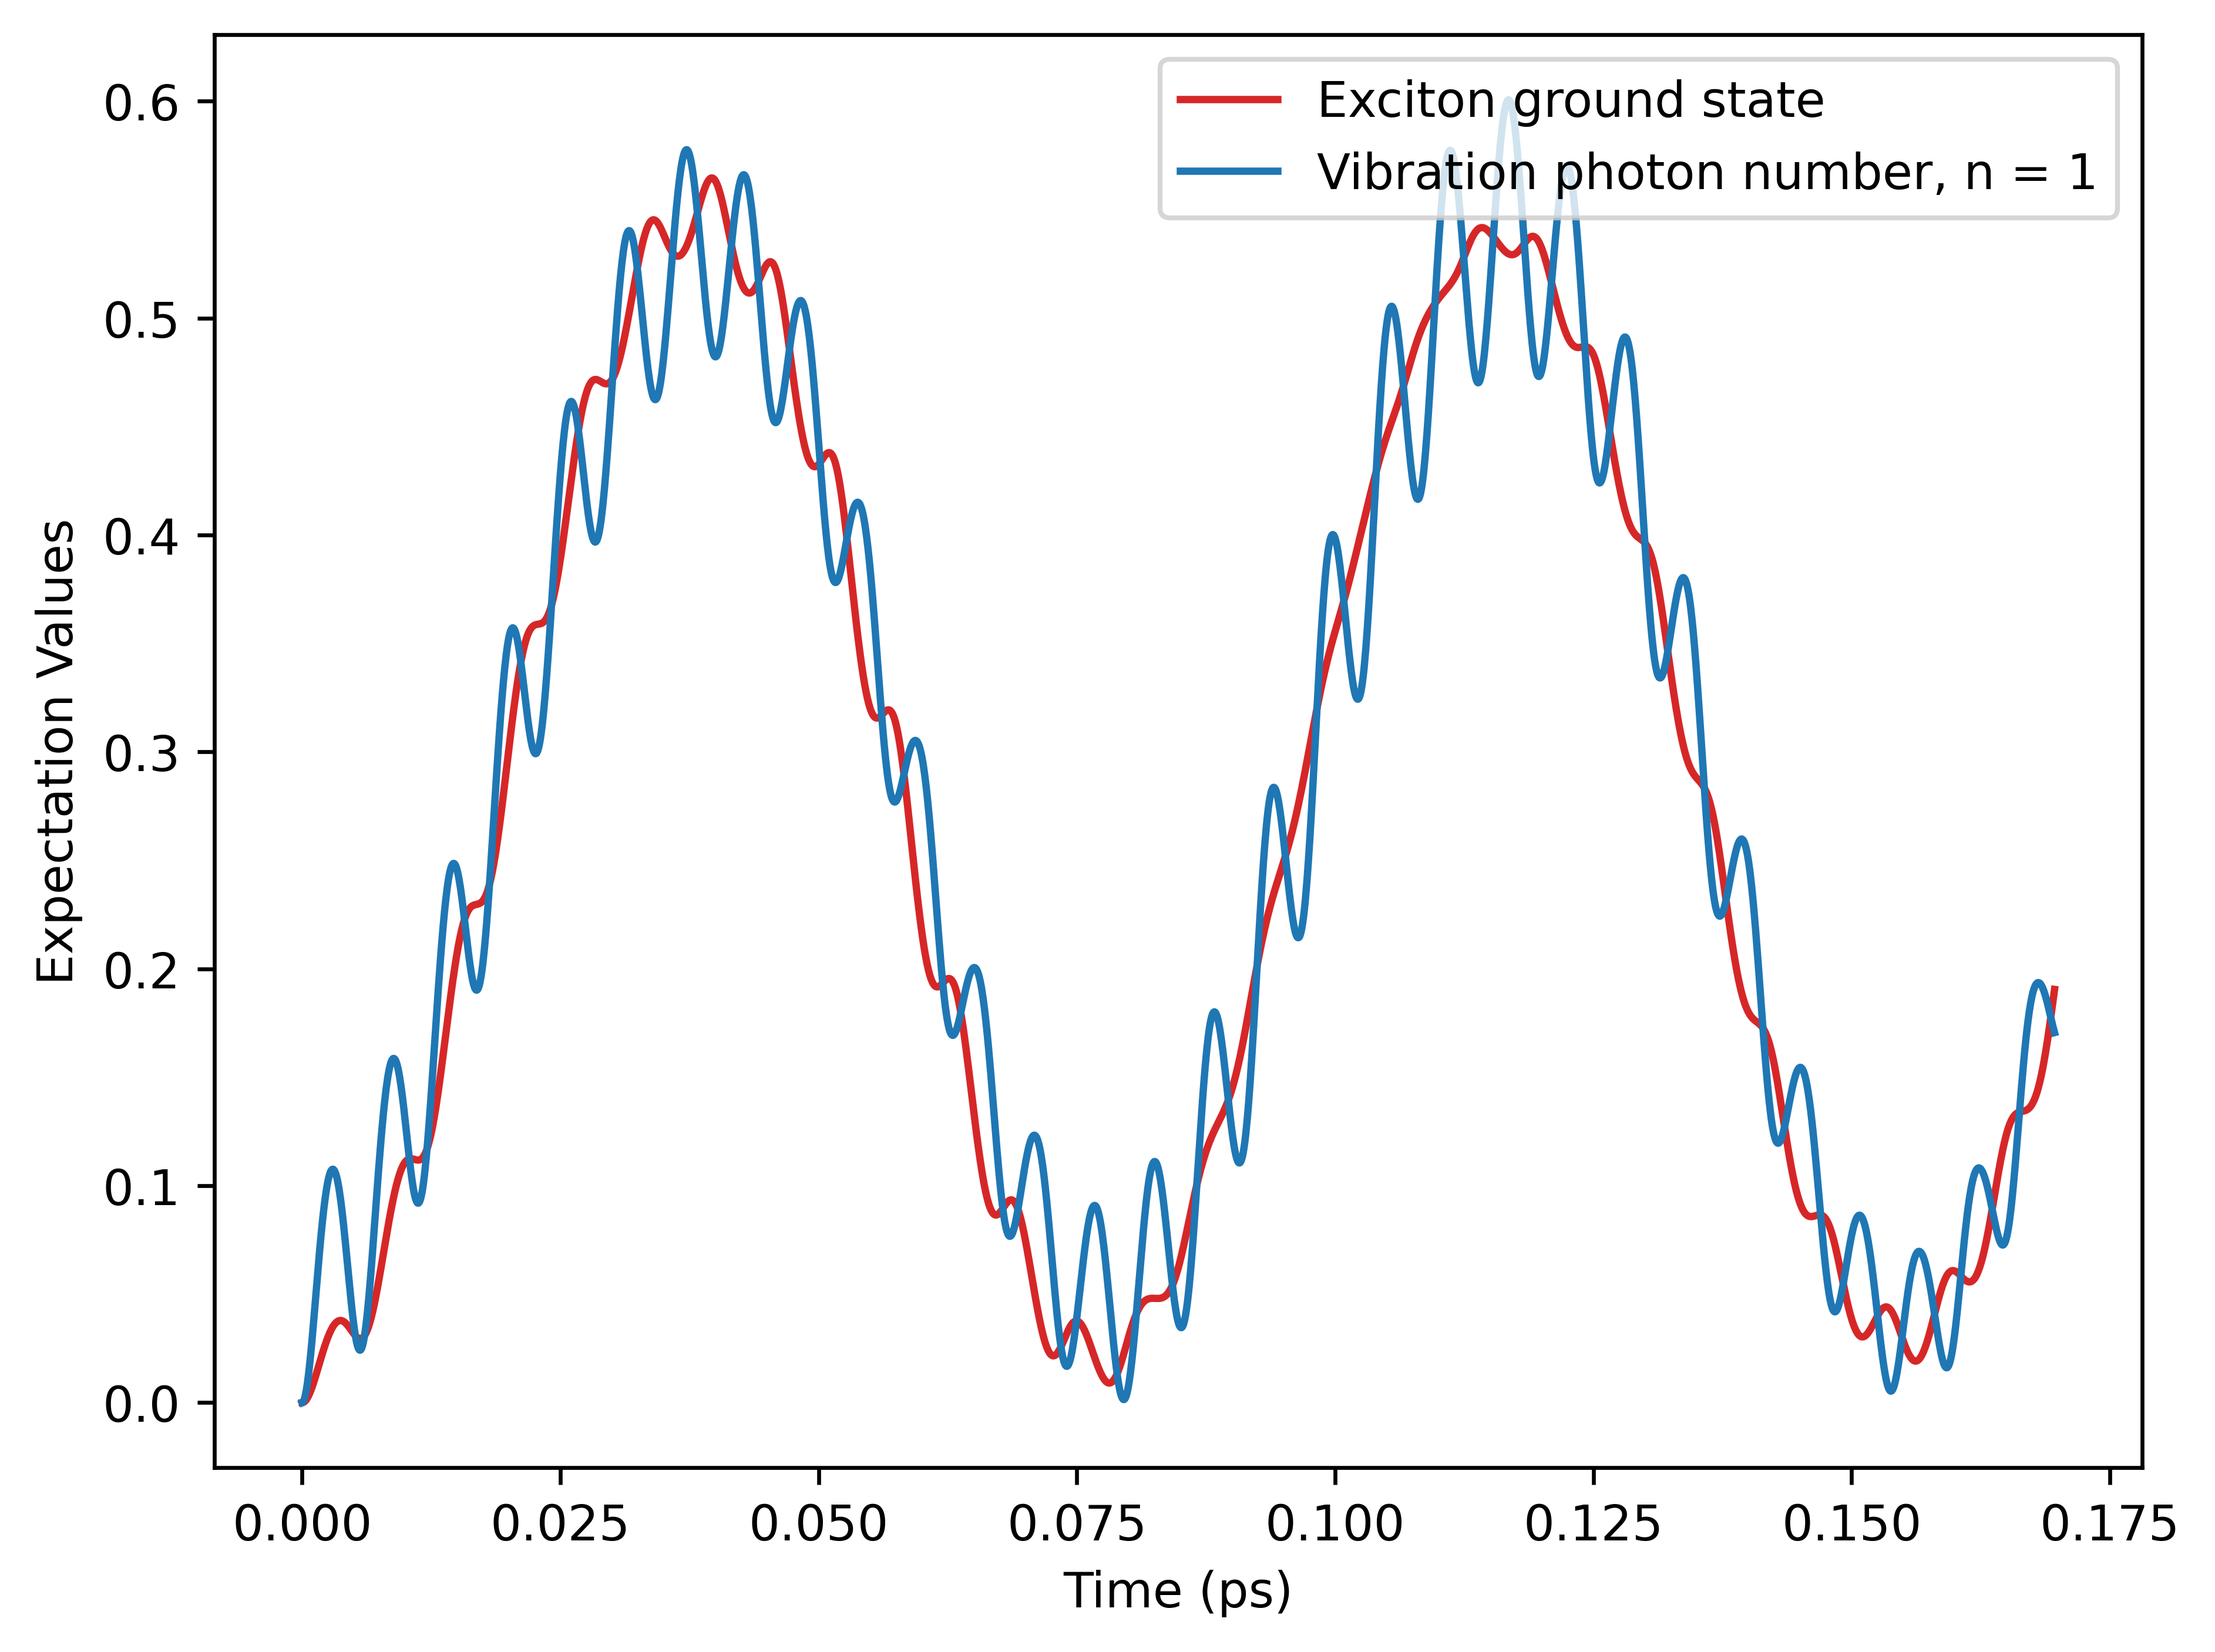
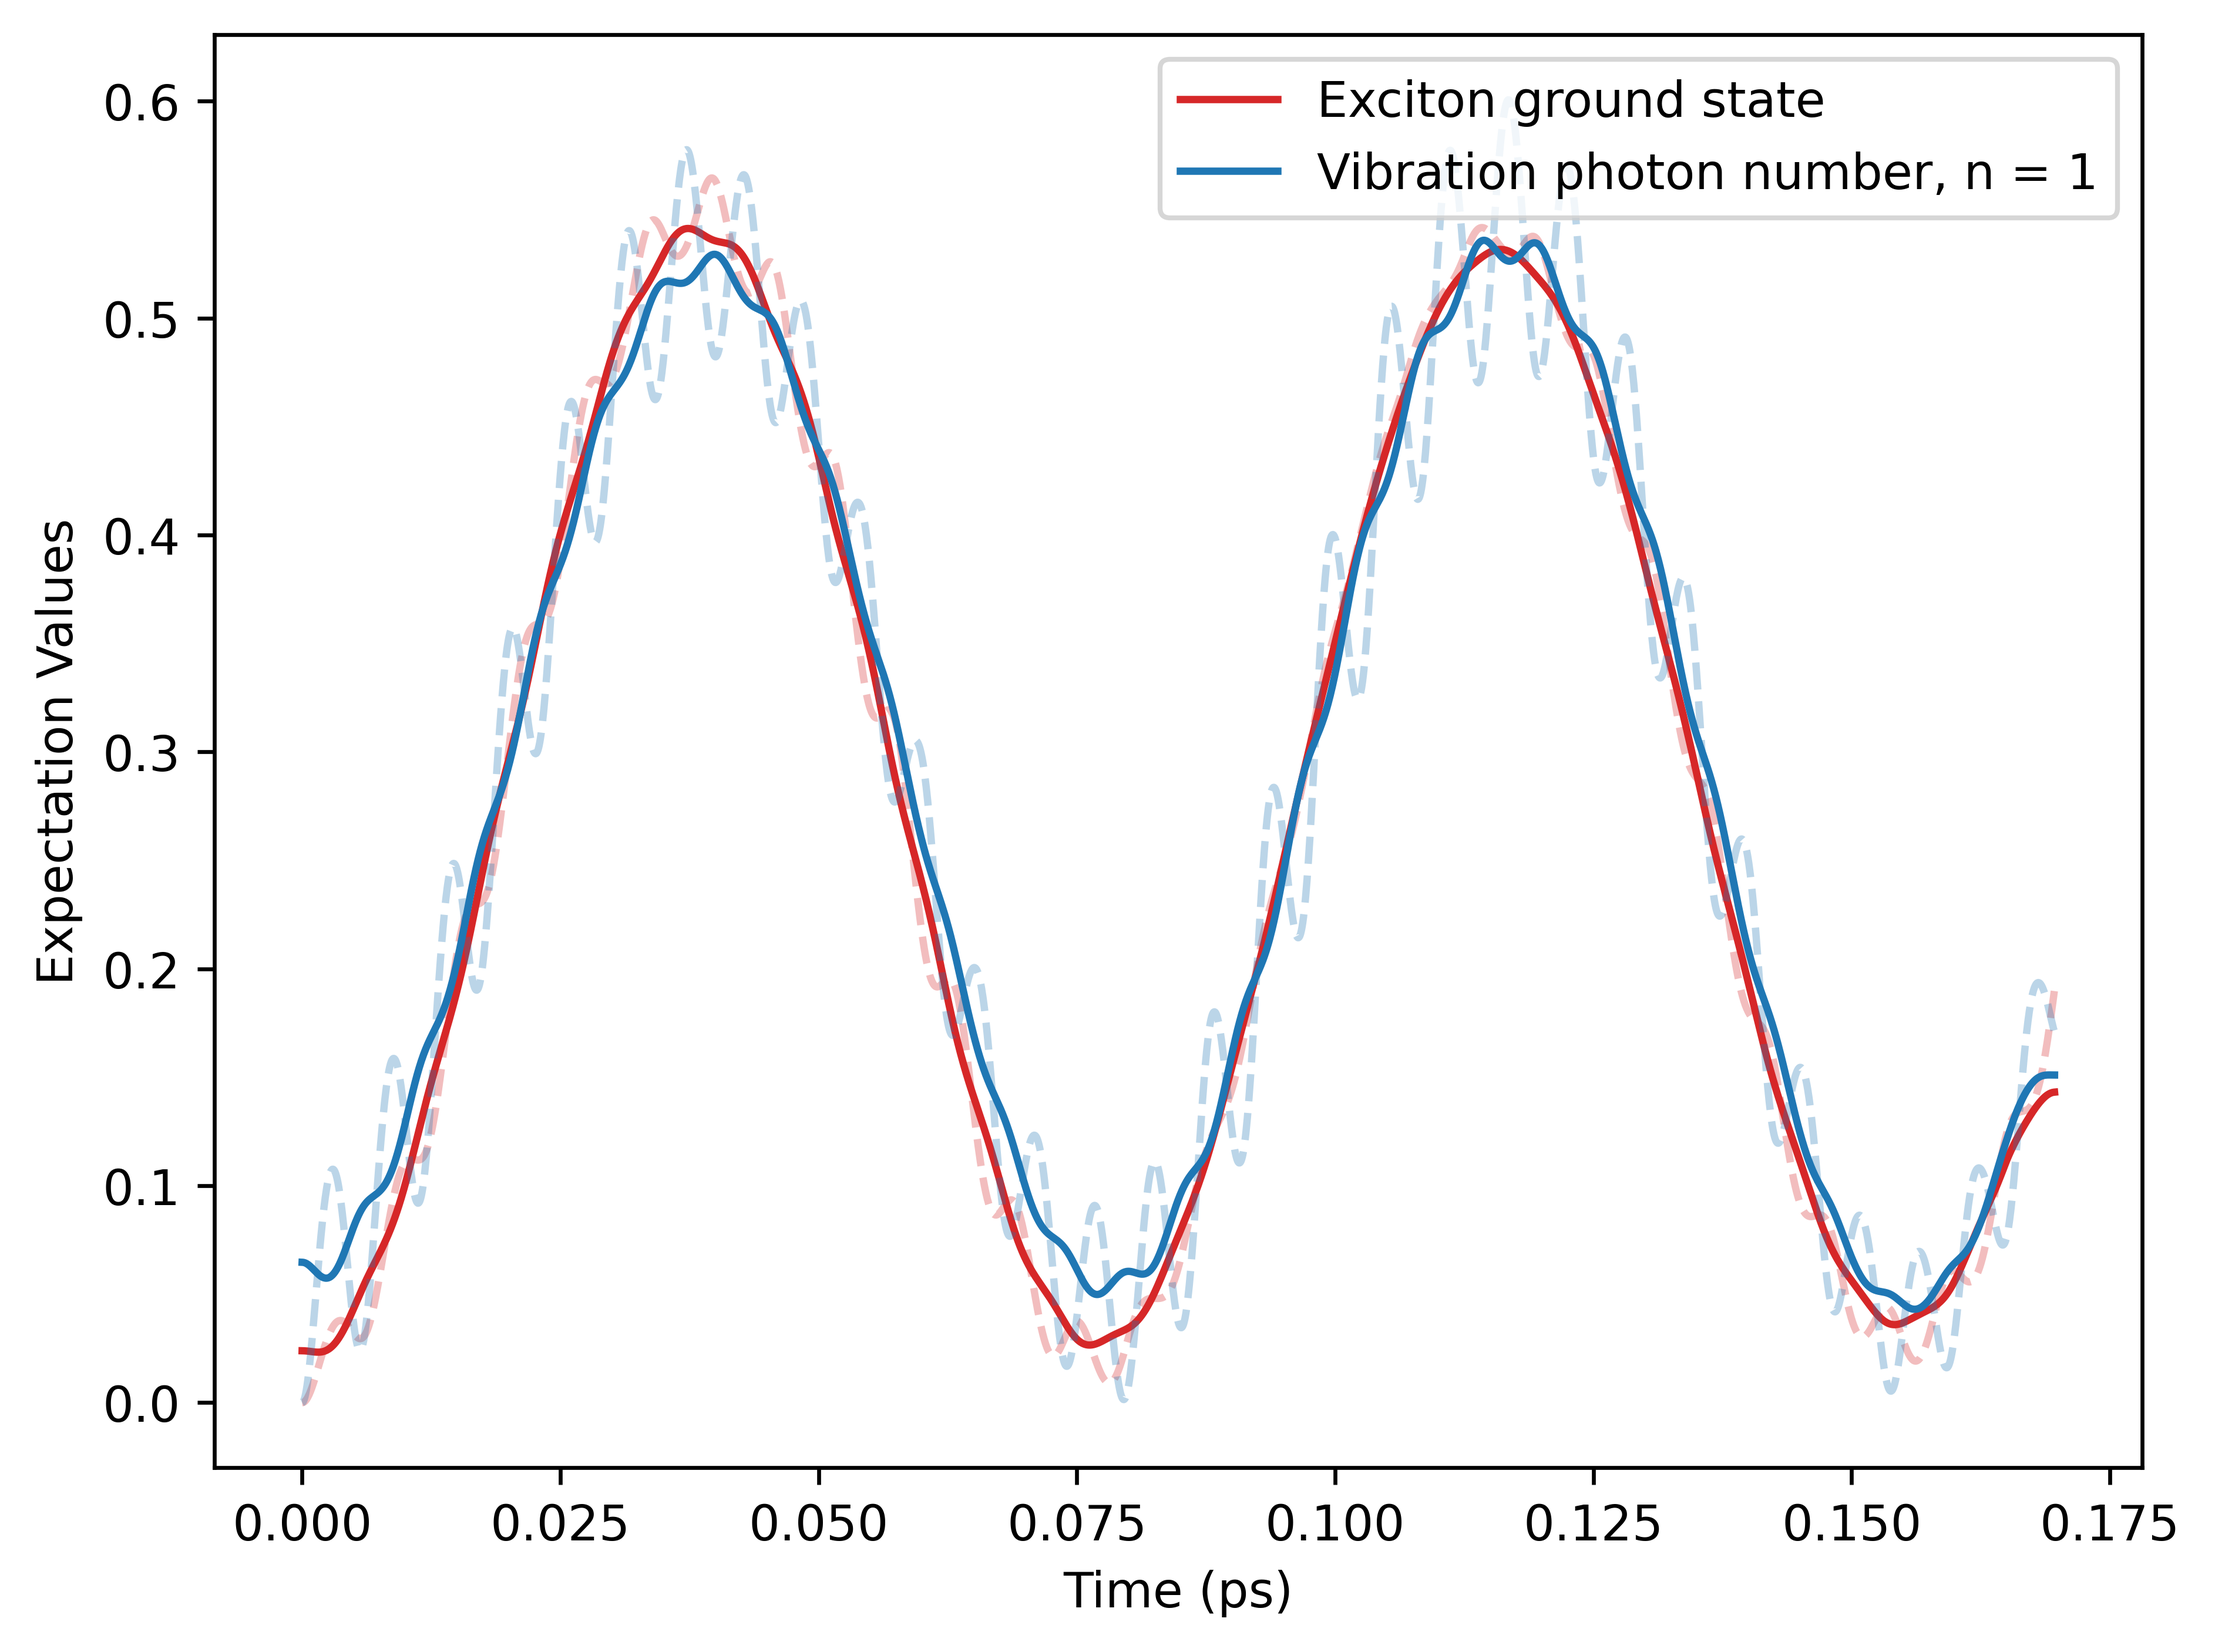
Adds smoothing average to fast oscillation plots of the ExVib simulations.

diff --git a/Research Project/Code/ExVib_Closed.py b/Research Project/Code/ExVib_Closed.py
@@ -199,6 +199,7 @@ sim_e0_fast.plot(
     ],
     y_label="Expectation Values",
     savepath="/ExVib/Closed/Fast",
+    smooth=150
 )
 
 sim_e0_fast.plot(
@@ -206,6 +207,7 @@ sim_e0_fast.plot(
     [{"y_data": vne_e0_fast, "colour": "tab:purple"}],
     y_label="Von Neumann Entanglement Entropy",
     savepath="/ExVib/Closed/Fast",
+    smooth=150
 )
 
 sim_e0_fast.plot(
@@ -221,6 +223,7 @@ sim_e0_fast.plot(
     ],
     y_label="Relative Entropy of Coherence",
     savepath="/ExVib/Closed/Fast",
+    smooth=150
 )
 
 
@@ -240,6 +243,7 @@ sim_eg_fast.plot(
     ],
     y_label="Expectation Values",
     savepath="/ExVib/Closed/Fast",
+    smooth=150
 )
 
 sim_eg_fast.plot(
@@ -247,6 +251,7 @@ sim_eg_fast.plot(
     [{"y_data": vne_eg_fast, "colour": "tab:purple"}],
     y_label="Von Neumann Entanglement Entropy",
     savepath="/ExVib/Closed/Fast",
+    smooth=150
 )
 
 sim_eg_fast.plot(
@@ -262,4 +267,5 @@ sim_eg_fast.plot(
     ],
     y_label="Relative Entropy of Coherence",
     savepath="/ExVib/Closed/Fast",
+    smooth=150
 )
